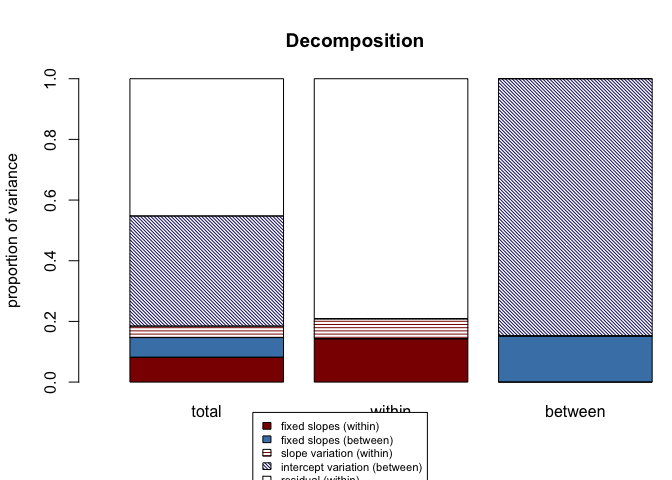
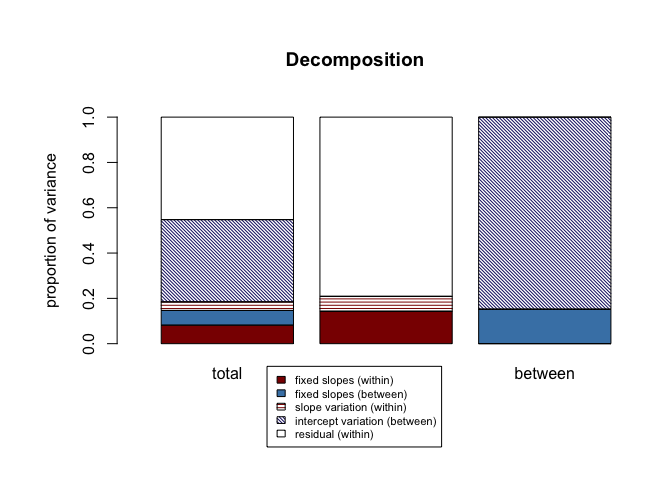
nlme updates.

diff --git a/README.md b/README.md
@@ -66,6 +66,9 @@ library(r2mlm)
 # Generate the model, in this case with lme4:
 model <- lmer(satisfaction ~ 1 + salary_c + s_t_ratio + (1 + salary_c | schoolID), data = teachsat, REML = TRUE)
 
+# Adjust plot margins
+par(mar = c(7.1, 6.1, 6.1, 4.1))
+
 # Generate R-squared measures for that model:
 r2mlm(model)
 ```
